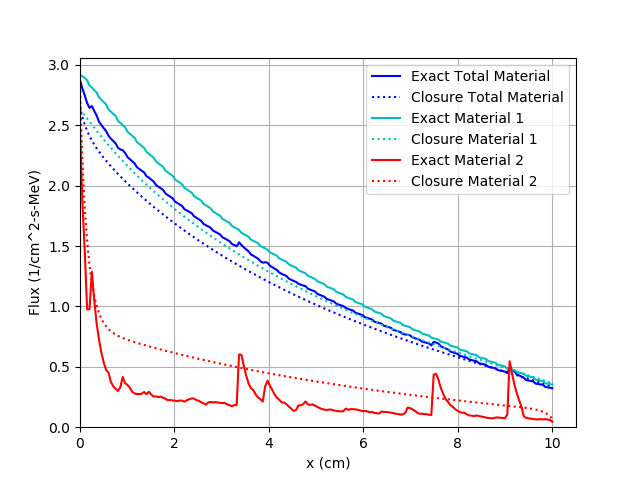
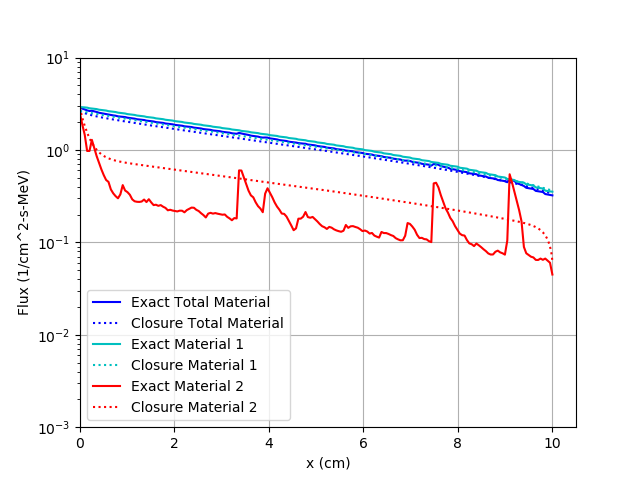
Pre-emptive commit before alterations and re-structure

diff --git a/src_py/plot_overlap.py b/src_py/plot_overlap.py
@@ -40,6 +40,8 @@ def plot_overlap(first_x, first_y, first_label, second_x, second_y, second_label
     plt.ylabel('Flux (1/cm^2-s-MeV)')
     plt.xlim(xmin=0.0)
     plt.ylim(ymin=0.0)
+    plt.yscale('log')
+    plt.ylim([1e-3, 1e1])
     plt.savefig(f"{destination}.png")
     plt.clf()
     plt.cla()
